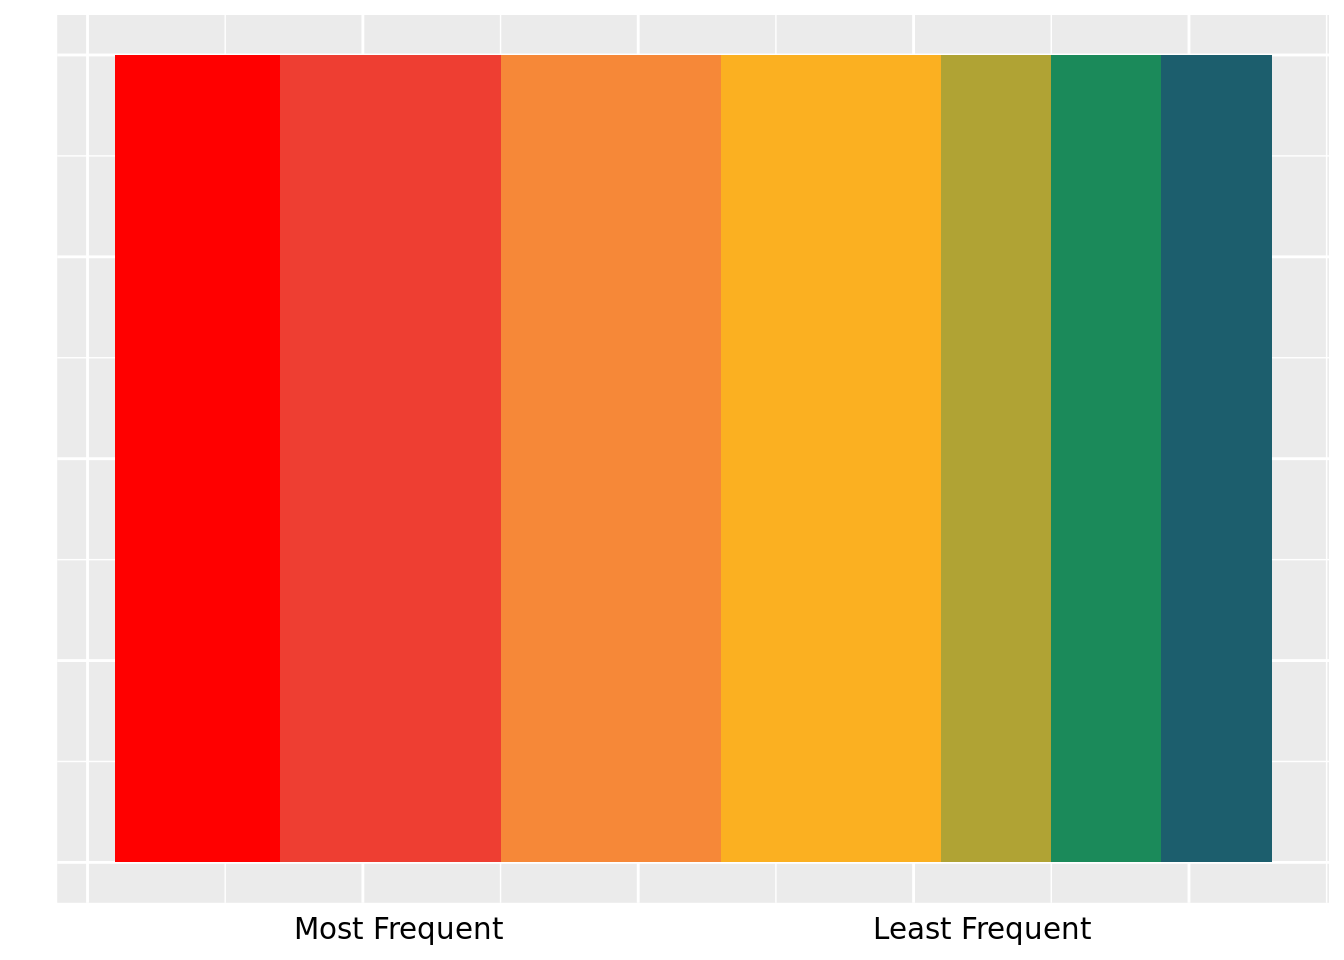
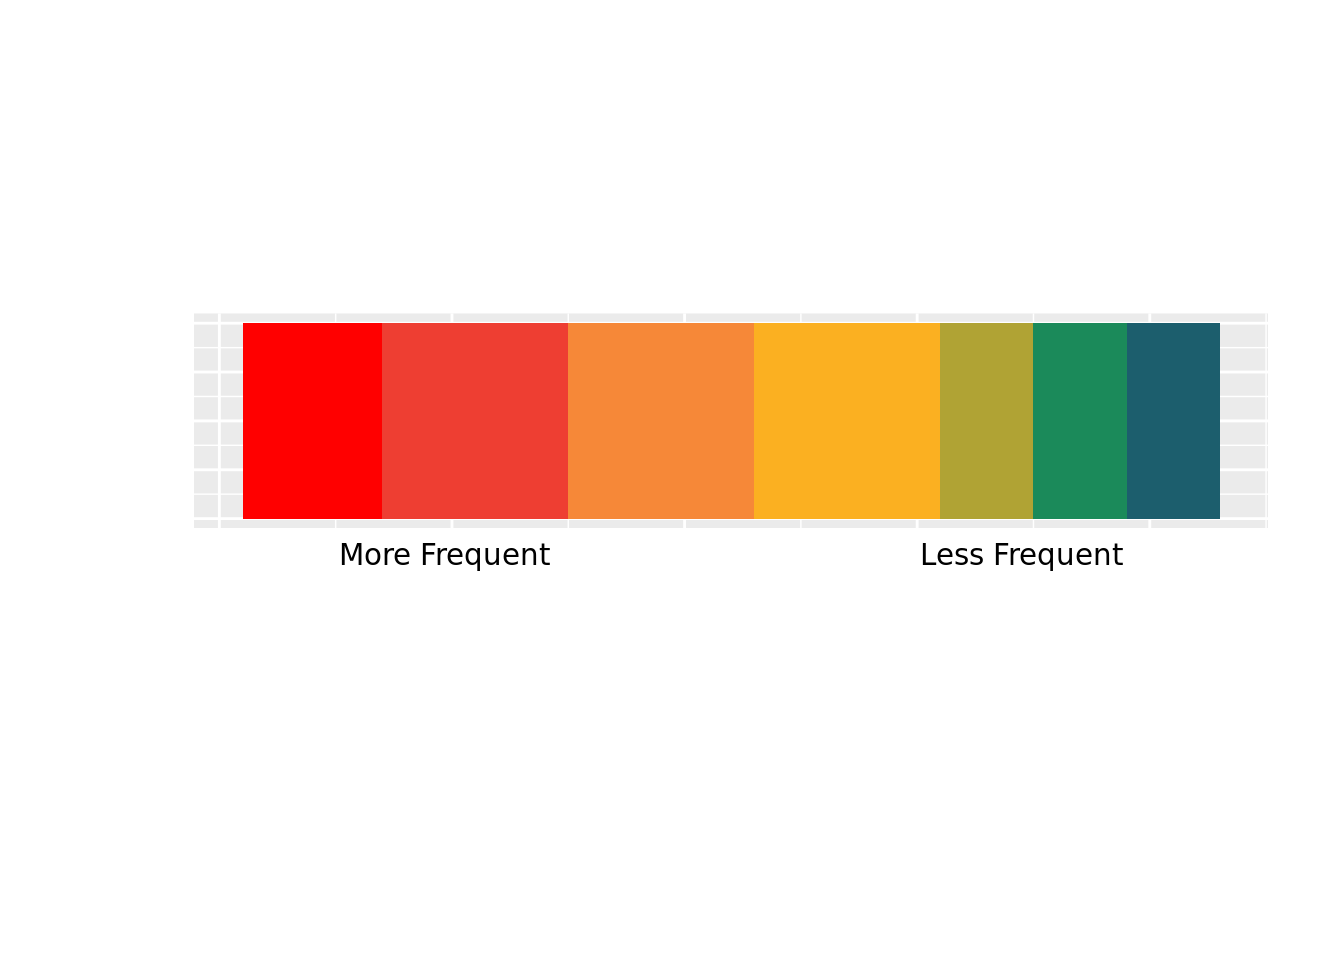
DONE

diff --git a/baby-names-keyboard.html b/baby-names-keyboard.html
@@ -276,14 +276,16 @@ dbl (4): row, number, width, height
 <span id="cb17-2"><a href="#cb17-2" aria-hidden="true" tabindex="-1"></a>  <span class="fu">geom_tile</span>() <span class="sc">+</span></span>
 <span id="cb17-3"><a href="#cb17-3" aria-hidden="true" tabindex="-1"></a>  <span class="fu">scale_fill_identity</span>() <span class="sc">+</span></span>
 <span id="cb17-4"><a href="#cb17-4" aria-hidden="true" tabindex="-1"></a>  <span class="fu">labs</span>(</span>
-<span id="cb17-5"><a href="#cb17-5" aria-hidden="true" tabindex="-1"></a>    <span class="at">x =</span> <span class="st">"Most Frequent                                         Least Frequent"</span>,</span>
+<span id="cb17-5"><a href="#cb17-5" aria-hidden="true" tabindex="-1"></a>    <span class="at">x =</span> <span class="st">"More Frequent                                         Less Frequent"</span>,</span>
 <span id="cb17-6"><a href="#cb17-6" aria-hidden="true" tabindex="-1"></a>    <span class="at">y =</span> <span class="st">""</span>,</span>
 <span id="cb17-7"><a href="#cb17-7" aria-hidden="true" tabindex="-1"></a>  ) <span class="sc">+</span> </span>
 <span id="cb17-8"><a href="#cb17-8" aria-hidden="true" tabindex="-1"></a>   <span class="fu">theme</span>(<span class="at">axis.text.x=</span><span class="fu">element_blank</span>(), <span class="co">#remove x axis labels</span></span>
 <span id="cb17-9"><a href="#cb17-9" aria-hidden="true" tabindex="-1"></a>        <span class="at">axis.ticks.x=</span><span class="fu">element_blank</span>(), <span class="co">#remove x axis ticks</span></span>
 <span id="cb17-10"><a href="#cb17-10" aria-hidden="true" tabindex="-1"></a>        <span class="at">axis.text.y=</span><span class="fu">element_blank</span>(),  <span class="co">#remove y axis labels</span></span>
-<span id="cb17-11"><a href="#cb17-11" aria-hidden="true" tabindex="-1"></a>        <span class="at">axis.ticks.y=</span><span class="fu">element_blank</span>()  <span class="co">#remove y axis ticks</span></span>
-<span id="cb17-12"><a href="#cb17-12" aria-hidden="true" tabindex="-1"></a>        )</span></code><button title="Copy to Clipboard" class="code-copy-button"><i class="bi"></i></button></pre></div>
+<span id="cb17-11"><a href="#cb17-11" aria-hidden="true" tabindex="-1"></a>        <span class="at">axis.ticks.y=</span><span class="fu">element_blank</span>(), <span class="co">#remove y axis ticks</span></span>
+<span id="cb17-12"><a href="#cb17-12" aria-hidden="true" tabindex="-1"></a>        <span class="at">plot.margin =</span> <span class="fu">margin</span>(<span class="dv">1</span>, <span class="dv">1</span>, <span class="dv">2</span>, <span class="dv">2</span>, <span class="st">"cm"</span>),</span>
+<span id="cb17-13"><a href="#cb17-13" aria-hidden="true" tabindex="-1"></a>        <span class="at">aspect.ratio =</span> <span class="dv">3</span><span class="sc">/</span><span class="dv">15</span></span>
+<span id="cb17-14"><a href="#cb17-14" aria-hidden="true" tabindex="-1"></a>        )</span></code><button title="Copy to Clipboard" class="code-copy-button"><i class="bi"></i></button></pre></div>
 <div class="cell-output-display">
 <p><img src="baby-names-keyboard_files/figure-html/visualization-legend-1.png" class="img-fluid" width="672"></p>
 </div>
